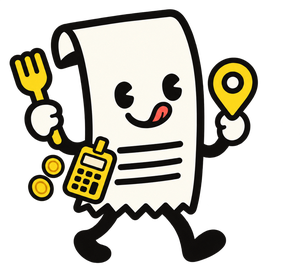
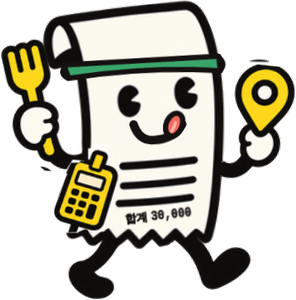
소개글: 캐릭터 그림을 현재 버전(테마별 의상)으로 교체, 심야식당 캐릭터 추가

diff --git a/README.md b/README.md
@@ -60,7 +60,7 @@
   |---|---|---|
   | <img src="assets/mascot-upchelin.png" height="56"> | 🏅 **업슐랭 가이드** | 광역 시·도마다 여러 기관이 여러 해 찾은 식당 상위 20곳(3개 기관·4개 연도·10건, 자료가 적은 지역은 최소 2곳) + 카페 최대 3곳 |
   | <img src="assets/mascot-solo.png" height="56"> | 🍚 **고독한 기관장** | 기관장이 1~2인으로 결제한 기록이 2건 이상 |
-  | <img src="assets/mascot.png" height="56"> | 🌙 **심야식당** | 기관장 결제 중 밤 8시~새벽 5시 결제가 3건 이상 |
+  | <img src="assets/mascot-night.png" height="56"> | 🌙 **심야식당** | 기관장 결제 중 밤 8시~새벽 5시 결제가 3건 이상 |
   | <img src="assets/mascot-yeongran.png" height="56"> | 💸 **영란로드** | 1인당 식사 가액 기준(3만 원, 2024.8.27부터 5만 원)의 90~100% 결제 3건 이상 또는 건당 50만 원 이상 2건 이상 (참고 지표) |
 
 - **연도별 금·은·동 · 장기집권**: 같은 기관이 그해 4건·3개월 이상 결제한 곳을 단골로 보고, 결제 횟수 1~3위에 🥇🥈🥉, 3년 연속 1위면 장기집권 👑.
